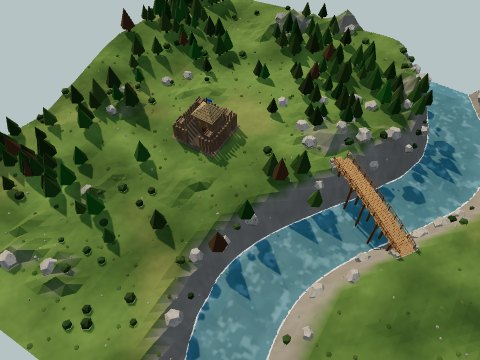
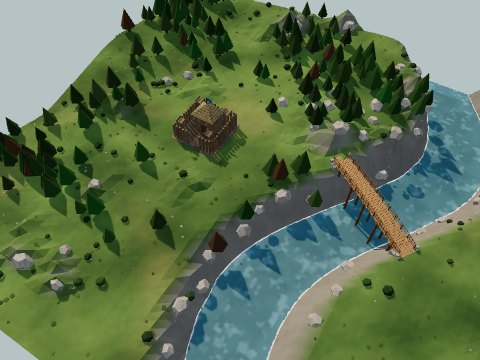
Mountain pass map: castle on a plateau, one wide pass up from the bottom-left, mountains nobody can climb, plenty of stone; a 10-minute first day and two nights of 70 and 100 raiders
Claude-Session: https://claude.ai/code/session_01AE8sRRsVdpH9ETfQvtppox

diff --git a/index.html b/index.html
@@ -121,13 +121,13 @@ button.danger{border-color:#6b3a33;color:var(--bad)}
 .sheet{background:#1c1d18;border:1px solid var(--gold);border-radius:8px;padding:20px 22px;width:min(420px,100%);display:flex;flex-direction:column;gap:12px}
 .sheet h2{margin:0;font-family:var(--display);font-weight:400;font-size:34px;color:var(--gold);text-wrap:balance}
 .sheet h2.lost{color:var(--bad)}
-.mapSheet{display:flex;flex-direction:column;align-items:center;text-align:center;gap:14px;width:min(420px,100%)}
+.mapSheet{display:flex;flex-direction:column;align-items:center;text-align:center;gap:14px;width:min(560px,100%)}
 /* the title screen: dark over everything, the game isn't shown until a map is picked */
 #mapPick{z-index:50;background:radial-gradient(ellipse at 50% 35%, #23271f 0%, #121410 70%, #0b0c09 100%)}
 .gameTitle{margin:0;font-family:var(--display);font-weight:400;font-size:clamp(34px,10vw,52px);line-height:1.05;color:var(--gold);text-shadow:0 2px 18px rgba(0,0,0,.6);text-wrap:balance}
 .mapSub{font-size:13px;letter-spacing:.14em;text-transform:uppercase;color:var(--muted);margin-bottom:4px}
-.maps{display:flex;gap:12px;justify-content:center;flex-wrap:wrap}
-.mapBtn{display:flex;flex-direction:column;align-items:stretch;gap:7px;padding:6px 6px 8px;border-radius:12px;background:#24261f;border-color:#4a4838;width:min(170px,38vw)}
+.maps{display:flex;gap:min(12px,2vw);justify-content:center;flex-wrap:wrap}
+.mapBtn{display:flex;flex-direction:column;align-items:stretch;gap:7px;padding:6px 6px 8px;border-radius:12px;background:#24261f;border-color:#4a4838;width:min(170px,25vw)}
 .mapBtn img{width:100%;aspect-ratio:4/3;object-fit:cover;border-radius:8px;display:block;background:#2e3a2c}
 .mapBtn b{font-family:var(--display);font-weight:400;font-size:17px;color:var(--parch)} .mapBtn.last{border-color:var(--gold)} .mapBtn.last b{color:var(--gold)}
 .sheet p{margin:0;color:var(--muted)}
@@ -339,6 +339,7 @@ button.armed .bIco{width:18px;height:18px;fill:none;stroke:currentColor;stroke-w
       <div class="maps">
         <button class="mapBtn" data-map="meadow"><img src="maps/meadow.jpg" alt=""><b>Meadow</b></button>
         <button class="mapBtn" data-map="isle"><img src="maps/isle.jpg" alt=""><b>River isle</b></button>
+        <button class="mapBtn" data-map="pass"><img src="maps/pass.jpg" alt=""><b>Mountain pass</b></button>
       </div>
     </div>
   </div>
@@ -365,7 +366,7 @@ const N = 28, CELL = 2, SIZE = N * CELL, V = SIZE + 1;
 const F = 3, TICK = 20;
 let KX = 19, KZ = 27;                  // castle site: Meadow cells 8–10, 12–14; River isle 12–14, 12–14 (set per map in startGame)
 // MAP: 'meadow' (the original map) or 'isle' (the castle on an island ringed by a river, three fixed bridges); ?map=isle skips the picker
-var MAP = (location.search.match(/[?&]map=(meadow|isle)\b/) || [])[1] || (() => { try { return localStorage.getItem('mtd-map'); } catch (e) { return null; } })() || 'meadow';
+var MAP = (location.search.match(/[?&]map=(meadow|isle|pass)\b/) || [])[1] || (() => { try { const m = localStorage.getItem('mtd-map'); return /^(meadow|isle|pass)$/.test(m) ? m : null; } catch (e) { return null; } })() || 'meadow';
 // river isle: the river's centre line wobbles round the castle; ISLE.r is its mean radius in metres
 const ISLE = { r: 16.6 }, ISLE_BRIDGES = [-90, 30, 150], ISLE_ROCKS = [-30, 90, 210], MEADOW_BRIDGES = [0];   // Meadow: one bridge east from the castle over its river
 const isleOutN = z => 41 + 2.5 * Math.sin(z * .22 + .5), isleOutS = z => 18 + 2.5 * Math.sin(z * .2 + 2);   // the isle's two outflows: centre x by z
@@ -446,15 +447,20 @@ const PATH_COST = { gold: 1 }, PATH_CHARM = .02, CHARM_R = 8, WALK = { farm: 1, 
 const CATS = { eco: ['house', 'farm', 'lodge', 'quarry', 'market'], def: ['tower', 'barracks', 'wall', 'gate'], decor: ['road', 'well', 'torch', 'flowers', 'statue'] };
 const WALLY = { wall: 1, gate: 1 };   // walls join only walls and gates
 // spearmen are the basic raider and come first; swordsmen join from wave 2, captains from wave 3
-const WAVES = [
+const WAVES_STD = [
   { spear: 7, sword: 0, archer: 2, hp: 1, dmg: 1 },
   { spear: 9, sword: 4, archer: 3, hp: 1.15, dmg: 1.1 },
   { spear: 10, sword: 6, archer: 5, hp: 1.3, dmg: 1.2, captain: 1 },
   { spear: 12, sword: 9, archer: 7, hp: 1.45, dmg: 1.35, captain: 1 },
   { spear: 14, sword: 12, archer: 10, hp: 1.6, dmg: 1.5, captain: 2 },
 ];
-const NIGHTS = WAVES.length;
-const DAYLEN = [300, 150, 150, 150, 150];
+// Mountain pass: one long day to prepare, then two huge nights
+const MAP_RULES = {
+  pass: { waves: [{ spear: 36, sword: 18, archer: 14, hp: 1.2, dmg: 1.1, captain: 2 }, { spear: 46, sword: 28, archer: 22, hp: 1.45, dmg: 1.3, captain: 4 }],
+          day: [600, 150], spawnGap: .5 },
+};
+var WAVES = WAVES_STD, NIGHTS = WAVES.length, DAYLEN = [300, 150, 150, 150, 150], SPAWN_GAP = 1.1;
+function mapRules() { const R = MAP_RULES[MAP]; WAVES = R ? R.waves : WAVES_STD; NIGHTS = WAVES.length; DAYLEN = R ? R.day : [300, 150, 150, 150, 150]; SPAWN_GAP = R ? R.spawnGap : 1.1; }
 const ENEMY = {
   sword:   { hp: 50, speed: 1.5, range: .6, dmg: 6, rate: 1.0 },
   archer:  { hp: 32, speed: 1.3, range: 4.5, dmg: 6, rate: 1.8 },
@@ -478,7 +484,27 @@ const lock = new Uint8Array(V * V), road = new Uint8Array(N * N);
 let occB = new Array(N * N).fill(null);
 // the Meadow river's centre line
 const meadowRiverX = z => SIZE * .68 + Math.sin(z * .12) * 5 + Math.sin(z * .05 + 1) * 3;
+// Mountain pass: the castle on a plateau at the top right, one wide pass climbing to it from the bottom-left corner,
+// steep mountains everywhere else; nobody walks or builds outside the plateau and the pass (passOpen)
+const PASS = { ax: -2, az: 58, bx: 31, bz: 28, plate: 10.5 };
+function passAt(x, z) {
+  const dx = PASS.bx - PASS.ax, dz = PASS.bz - PASS.az, L = Math.hypot(dx, dz), ux = dx / L, uz = dz / L;
+  const t = clamp(((x - PASS.ax) * ux + (z - PASS.az) * uz) / L, 0, 1), qx = PASS.ax + dx * t, qz = PASS.az + dz * t;
+  const side = Math.sign((x - PASS.ax) * -uz + (z - PASS.az) * ux) || 1, wob = 1.6 * Math.sin(t * 7);
+  return { t, across: Math.abs(Math.hypot(x - qx, z - qz) * side - wob), half: 6.5 + 1.5 * t, plate: Math.hypot(x - KX, z - KZ) };
+}
+const passOpen = (x, z) => { const p = passAt(x, z); return p.across < p.half - .3 || p.plate < PASS.plate - .3; };
+function passHeight(x, z) {
+  const p = passAt(x, z), ridge = 1 - Math.abs(fbm(x * .17 + 5, z * .17 + 9) * 2 - 1);
+  const mount = 8 + 6.5 * fbm(x * .11, z * .11) + 4.5 * ridge * ridge + 1.5 * vnoise(x * .4, z * .4);
+  const floor = 1 + 5 * Math.pow(p.t, 1.2) + .4 * fbm(x * .2, z * .2), plateH = 6 + .3 * fbm(x * .2 + 3, z * .2);
+  const inPass = sstep(p.half + 3, p.half, p.across), inPlate = sstep(PASS.plate + 3, PASS.plate, p.plate);
+  let h = lerp(mount, floor, inPass); h = lerp(h, plateH, inPlate);
+  if (p.plate < PASS.plate + 2.5 && inPass > .5) h = Math.min(h, plateH);
+  return h;
+}
 function genHeight(x, z) {
+  if (MAP === 'pass') return passHeight(x, z);
   let h = 1.6 + fbm(x * .06, z * .06) * 4.2;
   h += Math.max(0, fbm(x * .14 + 9, z * .14 + 3) - .6) * 16;
   h += Math.max(0, 10 - x) * .35 * fbm(x * .1, z * .1 + 7);
@@ -510,6 +536,7 @@ let bridges = [];
 const bridgeCell = new Uint8Array(N * N), BRIDGE_RISE = .45, DECK_W = 1.9;
 // where each map's bridges cross: a start point and a direction, marched along until the river is crossed
 function bridgeRays() {
+  if (MAP === 'pass') return [];
   if (MAP === 'isle') return ISLE_BRIDGES.map(deg => { const a = deg * Math.PI / 180, r = isleR(a); return { ox: KX + Math.cos(a) * (r - 7), oz: KZ + Math.sin(a) * (r - 7), dx: Math.cos(a), dz: Math.sin(a) }; });
   // Meadow: square across its river where it passes the castle's row
   const zc = KZ, drx = .6 * Math.cos(zc * .12) + .15 * Math.cos(zc * .05 + 1), m = Math.hypot(1, drx), dx = 1 / m, dz = -drx / m;
@@ -667,6 +694,7 @@ waterMat.customProgramCacheKey = () => 'flowing-water';
 const C = { grass: new THREE.Color('#5a7338'), grass2: new THREE.Color('#3b5127'), dirt: new THREE.Color('#7b5d3c'),
   rock: new THREE.Color('#77736a'), sand: new THREE.Color('#9d906b'), bed: new THREE.Color('#45432f'), dry: new THREE.Color('#7f7948') };
 const tmpC = new THREE.Color();
+const SNOW_C = new THREE.Color('#e4e6ea');
 function recolor() {
   for (let j = 0; j < V; j++) for (let i = 0; i < V; i++) {
     const k = idx(i, j), h = H[k];
@@ -675,7 +703,7 @@ function recolor() {
     tmpC.copy(C.grass2).lerp(C.grass, clamp((gvar[k] - .25) * 2, 0, 1));
     tmpC.lerp(C.dry, sstep(.55, .72, dvar[k]) * .4);
     tmpC.lerp(C.sand, sstep(.8, .2, h)); tmpC.lerp(C.bed, sstep(-.1, -.8, h));
-    tmpC.lerp(C.rock, sstep(.55, 1.1, Math.hypot(hx, hz))); tmpC.lerp(C.dirt, dirt[k]);
+    tmpC.lerp(C.rock, sstep(.55, 1.1, Math.hypot(hx, hz))); if (h > 15) tmpC.lerp(SNOW_C, sstep(16.2, 18.5, h) * .7); tmpC.lerp(C.dirt, dirt[k]);
     tmpC.multiplyScalar(.94 + .1 * hash(i * 1.7, j * 2.3));
     tCol[k * 3] = tmpC.r; tCol[k * 3 + 1] = tmpC.g; tCol[k * 3 + 2] = tmpC.b;
   }
@@ -943,6 +971,17 @@ function genTrees() {
       if (woods || lone) trees.push({ x, z, s: .75 + hash(z, x) * .5, k: 1 });
       continue;
     }
+    if (MAP === 'pass') {
+      // a forest wrapped round the castle except toward the pass, trees along the pass's sides, and (out of reach, for looks)
+      // pines on the gentler mountain slopes
+      const ang = Math.atan2(z - KZ, x - KX) * 180 / Math.PI, open = passOpen(x, z), p = passAt(x, z);
+      if (open) {
+        const ring = dk > 7.2 && dk < PASS.plate - .6 && !(ang > 95 && ang < 170) && hash(x * 1.3, z * .7) < .62;
+        const side = p.plate > PASS.plate && p.across > p.half - 2.2 && hash(x * 1.7, z * .9) < .35;
+        if ((ring || side) && !passRockSite(x, z, 1.8)) trees.push({ x, z, s: .75 + hash(z, x) * .5, k: 1 });
+      } else if (slopeAt(x, z) < 1.2 && hAt(x, z) < 14 && hash(x * 2.3, z * 1.9) < .18) trees.push({ x, z, s: .7 + hash(z, x) * .5, k: 1, deco: true });
+      continue;
+    }
     if (dk < 7.5 || (z > KZ && Math.abs(x - KX) < 3 && dk < 16) || nearBridge(x, z, 3)) continue;
     const mask = fbm(x * .08 + 20, z * .08 + 11), h = hAt(x, z);
     const lone = hash(x * 2.1, z * 1.7) < .07, forest = dk > 12 && mask > .5 && hash(x * 1.3, z * .7) < (mask - .45) * 3 * sstep(12, 18, dk);
@@ -962,7 +1001,7 @@ function seatTrees() {
   });
   trunks.instanceMatrix.needsUpdate = crowns.instanceMatrix.needsUpdate = true;
 }
-const treeFree = (t, now) => !t.dead && !t.cut && t.k >= 1 && !t.claim && !((t.blocked || 0) > now);
+const treeFree = (t, now) => !t.dead && !t.deco && !t.cut && t.k >= 1 && !t.claim && !((t.blocked || 0) > now);   // deco: on a mountain, out of reach
 
 // ---------- rocks ----------
 const ROCK_STONE = 10;   // stone in each rock, one per mason trip; mined-out rocks don't come back
@@ -970,9 +1009,29 @@ let rocks = [];
 const rockGeo = new THREE.DodecahedronGeometry(.75, 0), rockMat = mat('#958f84'); addGrit(rockMat, 'rock');
 // River isle: three outcrops just beyond the far bank, between the bridges
 const isleRockSite = (x, z, d) => MAP === 'isle' && ISLE_ROCKS.some(g => { const a = g * Math.PI / 180, R = isleR(a) + 6.5; return Math.hypot(x - KX - Math.cos(a) * R, z - KZ - Math.sin(a) * R) < d; });
+// Mountain pass: plenty of stone, in outcrops on the plateau east and south of the castle, north-west of it, and along the pass
+const PASS_ROCKS = [[45.5, 23.5], [42.5, 28.8], [30.5, 15.5], [24, 35.5, 1], [16.5, 41.5, -1], [9.5, 48.5, 1]];
+const passRockSite = (x, z, d) => MAP === 'pass' && passRockCentres().some(([cx, cz]) => Math.hypot(x - cx, z - cz) < d + 2.2);
+function passRockCentres() {   // pass outcrops sit to one side of the track, inside the walls
+  return PASS_ROCKS.map(([x, z, side]) => { if (!side) return [x, z]; const p = passAt(x, z), dx = PASS.bx - PASS.ax, dz = PASS.bz - PASS.az, L = Math.hypot(dx, dz);
+    const qx = PASS.ax + dx * p.t, qz = PASS.az + dz * p.t, o = side * (p.half - 2.6); return [qx - dz / L * o, qz + dx / L * o]; });
+}
 function genRocks() {
   rocks.forEach(r => scene.remove(r.mesh)); rocks = [];
   const addRock = (x, z, s0, rot) => { const mesh = new THREE.Mesh(rockGeo, rockMat); mesh.castShadow = mesh.receiveShadow = true; mesh.rotation.set(...rot); rocks.push({ x, z, amount: ROCK_STONE, s0, mesh }); scene.add(mesh); };
+  if (MAP === 'pass') {
+    for (const [cx, cz] of passRockCentres()) for (let n = 0, k = 0; n < 300 && k < 8; n++) {
+      const x = cx + (Math.random() - .5) * 5, z = cz + (Math.random() - .5) * 5;
+      if (!passOpen(x, z) || Math.hypot(x - KX, z - KZ) < 6.5 || rocks.some(r => Math.hypot(r.x - x, r.z - z) < 1.7)) continue;
+      addRock(x, z, .95 + Math.random() * .5, [Math.random() * 3, Math.random() * 3, Math.random() * 3]); k++;
+    }
+    for (let n = 0, k = 0; n < 4000 && k < 14; n++) {
+      const x = 1 + Math.random() * (SIZE - 2), z = 1 + Math.random() * (SIZE - 2);
+      if (!passOpen(x, z) || Math.hypot(x - KX, z - KZ) < 7 || passAt(x, z).across < 2.5 || rocks.some(q => Math.hypot(q.x - x, q.z - z) < 3)) continue;
+      addRock(x, z, .85 + Math.random() * .5, [Math.random() * 3, Math.random() * 3, Math.random() * 3]); k++;
+    }
+    return;
+  }
   if (MAP === 'isle') {
     for (const g of ISLE_ROCKS) {
       const a = g * Math.PI / 180, R = isleR(a) + 6.5, cx = KX + Math.cos(a) * R, cz = KZ + Math.sin(a) * R;
@@ -1972,6 +2031,7 @@ function evaluate(type, ci, cj, free) {
   const T = DEF[type], s = T.size, x0 = ci * CELL, z0 = cj * CELL, x1 = x0 + s * CELL, z1 = z0 + s * CELL;
   const r = { type, ci, cj, s, x0, z0, x1, z1, ok: true, reason: '' };
   if (ci < 0 || cj < 0 || ci + s > N || cj + s > N) return { ...r, ok: false, reason: 'Off the map' };
+  if (MAP === 'pass') for (let b = cj; b < cj + s; b++) for (let a = ci; a < ci + s; a++) if (!passOpen((a + .5) * CELL, (b + .5) * CELL)) return { ...r, ok: false, reason: 'Too steep' };
   for (let b = cj; b < cj + s; b++) for (let a = ci; a < ci + s; a++) { if (occB[b * N + a]) return { ...r, ok: false, reason: 'Occupied' }; if (bridgeCell[b * N + a]) return { ...r, ok: false, reason: 'Bridge' }; }
   // solid buildings can't sit on another building's door cell, or villagers coming out get trapped there
   if (!WALK[type] && type !== 'gate' && buildings.some(B => !B.dead && B.door && B.door.a >= ci && B.door.a < ci + s && B.door.b >= cj && B.door.b < cj + s))
@@ -2229,6 +2289,7 @@ const FARM_OBST = { 1: [[-1.0, -1.2, .55, .4], [.9, -1.2, .3, .3]], 2: [[1.1, -.
 function farmBlocked(B, x, z) { const c = center(B), [lx, lz] = unrot(B.face || 0, x - c.x, z - c.z); return FARM_OBST[B.tier].some(([ox, oz, hx, hz]) => Math.abs(lx - ox) < hx + .18 && Math.abs(lz - oz) < hz + .18); }
 function canStand(x, z, mode) {   // mode 0 villager, 1 worker, 2 enemy
   if (x < .5 || z < .5 || x > SIZE - .5 || z > SIZE - .5) return false;
+  if (MAP === 'pass' && !passOpen(x, z)) return false;           // the mountains are too steep for anyone
   { const i = bridgeCell[cellAt(x, z)]; if (i && onDeck(bridges[i - 1], x, z)) return true; }
   const h = hAt(x, z);
   if (h < (mode === 2 || mode === 1 ? .3 : .5)) return false;   // nobody wades: rivers are crossed by bridge
@@ -2565,6 +2626,7 @@ function smoothPos(u, dt, now) {
 function stride(u, dt, rate) { u.amp = (u.amp || 0) + ((u.walking ? 1 : 0) - (u.amp || 0)) * Math.min(1, dt * 6); if (u.amp > .02) u.phase += dt * rate; return u.amp; }
 // ---------- pathfinding: A* over the cell grid, then follow cell centres, skipping any we can see past ----------
 function cellPass(n, mode) {
+  if (MAP === 'pass' && !passOpen((n % N + .5) * CELL, (((n / N) | 0) + .5) * CELL)) return false;
   if (bridgeCell[n]) return true;
   const o = occB[n]; if (o && !WALK[o.type] && !(o.type === 'gate' && mode !== 2)) return false;
   // a farm cell whose middle is the hut, barn, hay or a scarecrow is routed round (people still walk the open ground by it)
@@ -2979,6 +3041,8 @@ function makeRaider(kind) {
 }
 function spawnEnemy(kind, sp, wave) {
   const E = ENEMY[kind], w = WAVES[wave - 1], p = makeRaider(kind);
+  // only a raider's bigger parts cast shadows: the Mountain pass sends up to 100 at once, and every shadow is another draw
+  p.g.traverse(o => { if (o.isMesh) { const g = o.geometry; if (!g.boundingSphere) g.computeBoundingSphere(); if (g.boundingSphere.radius < .16) o.castShadow = false; } });
   const e = Object.assign(p, { kind, x: clamp(sp.x + (Math.random() - .5) * 2, 1, SIZE - 1), z: clamp(sp.z + (Math.random() - .5) * 2, 1, SIZE - 1),
     hp: E.hp * w.hp, max: E.hp * w.hp, speed: E.speed * (.9 + Math.random() * .2), range: E.range, dmg: E.dmg * w.dmg, rate: E.rate,
     cool: Math.random(), target: null, retarget: 0, dead: false, deadT: 0, bar: makeBar(kind === 'captain' ? 1.2 : .8) });
@@ -2988,6 +3052,13 @@ function distRect(B, x, z) { const e = B.ev; return Math.hypot(Math.max(e.x0 - x
 function nearestBuilding(x, z, maxD = 1e9, ok = null) { let best = null, bd = maxD; for (const B of buildings) { if (DEF[B.type].decor || (ok && !ok(B))) continue; const d = distRect(B, x, z); if (d < bd) { bd = d; best = B; } } return best; }
 function edgePoint() {
   const C = castleB(), dp = C && doorPoint(C);   // a spawn must have a walkable route to the castle's door
+  if (MAP === 'pass') {                          // always the foot of the pass, at the bottom-left corner
+    for (let n = 0; n < 120; n++) {
+      const t = Math.random() * 22, [x, z] = Math.random() < .5 ? [1 + t, SIZE - 1.2] : [1.2, SIZE - 1 - t];
+      if (passOpen(x, z) && cellPass(cellAt(x, z), 2) && (!dp || findPath(x, z, dp.x, dp.z, 2))) return { x, z };
+    }
+    return { x: 4, z: SIZE - 1.5 };
+  }
   for (let n = 0; n < 80; n++) {
     const side = Math.floor(Math.random() * 4), t = 2 + Math.random() * (SIZE - 4);
     const [x, z] = side === 0 ? [t, 1.2] : side === 1 ? [SIZE - 1.2, t] : side === 2 ? [t, SIZE - 1.2] : [1.2, t];
@@ -3418,7 +3489,7 @@ function updatePhase(dt) {
     if (PH.t <= 0) startNight();
   }
   else {
-    if (spawnQueue.length && (spawnT -= dt) <= 0) { const [k, p] = spawnQueue.shift(); spawnEnemy(k, p, PH.wave); spawnT = 1.1; }
+    if (spawnQueue.length && (spawnT -= dt) <= 0) { const [k, p] = spawnQueue.shift(); spawnEnemy(k, p, PH.wave); spawnT = SPAWN_GAP; }
     if (!spawnQueue.length && !enemies.some(e => !e.dead)) { if (PH.wave >= NIGHTS) endGame(true); else startDay(); }
   }
   if (PH.kind === 'day' && (econT -= dt) <= 0) { econT = TICK; econTick(); }   // no payouts at night: the ring waits for dawn
@@ -3982,14 +4053,16 @@ function startGame() {
   for (const a of arrows) scene.remove(a.m); arrows.length = 0; volleyQ = []; volleyCd = 0; volleyAim = false; volleyLine.visible = false;
   for (const f of floats) scene.remove(f.sp); floats.length = 0;
   for (const p of puffs) scene.remove(p.sp); puffs.length = 0;
+  mapRules();
   PH = { kind: 'day', wave: 1, t: DAYLEN[0] }; econT = TICK; gameOver = false; light = 1; if (paused) setPaused(false); setMusic('day');
-  if (MAP === 'isle') { KX = 27; KZ = 27; } else { KX = 19; KZ = 27; }
+  if (MAP === 'isle') { KX = 27; KZ = 27; } else if (MAP === 'pass') { KX = 37; KZ = 21; } else { KX = 19; KZ = 27; }
   genTerrain(); genBridges(); genTrees(); genRocks(); genClutter(); syncTerrain(); buildBridges(); genShore(); hideGhost(); deselect();
   Object.assign(res, { gold: 40, wood: 45, stone: 0, food: 20 });
   stats = { slain: 0, lost: 0, fallen: 0, gold: 0, wood: 0, stone: 0, food: 0, built: 0, upgrades: 0, t0: performance.now() };
   $('#summary').hidden = true; $('#log').innerHTML = '';
-  const ev = MAP === 'isle' ? findValid('castle', 12, 12, { free: true }) : findValid('castle', 8, 12, { free: true });
+  const ev = MAP === 'isle' ? findValid('castle', 12, 12, { free: true }) : MAP === 'pass' ? findValid('castle', 17, 9, { free: true }) : findValid('castle', 8, 12, { free: true });
   if (ev) { const B = place('castle', ev.ci, ev.cj, { instant: true, free: true, quiet: true }); const c = center(B); target.set(c.x, 2, c.z); }
+  if (MAP === 'pass') { yaw = -.72; target.x -= 3; target.z += 3.5; }   // looking up the pass at the castle
   updateCam();
   log('Drag · twist · pinch');
   log(`Survive <b>${NIGHTS} nights</b>`);

diff --git a/tools/render/maps.js b/tools/render/maps.js
@@ -1,13 +1,13 @@
-// Renders the map picker's pictures from the real maps: maps/meadow.jpg and maps/isle.jpg (3/4 view, no UI).
+// Renders the map picker's pictures from the real maps: maps/meadow.jpg, maps/isle.jpg and maps/pass.jpg (3/4 view, no UI).
 //   node tools/render/maps.js [--three path/to/three.min.js]
 const path = require('path'), fs = require('fs');
 const { openGame } = require('./serve');
 const ROOT = path.resolve(__dirname, '../..');
 const arg = (k, d) => { const i = process.argv.indexOf(k); return i > 0 ? process.argv[i + 1] : d; };
-const VIEW = { meadow: [25, 0, 29, .55, .95, 52], isle: [27, 0, 27, .55, .95, 52] };    // target x, y, z, yaw, pitch, dist
+const VIEW = { meadow: [25, 0, 29, .55, .95, 52], isle: [27, 0, 27, .55, .95, 52], pass: [29, 2, 30, -.72, .95, 56] };    // target x, y, z, yaw, pitch, dist
 (async () => {
   const { page, close, errors } = await openGame('index.html?debug&map=meadow', { three: arg('--three'), viewport: { width: 480, height: 360 } });
-  for (const m of ['meadow', 'isle']) {
+  for (const m of ['meadow', 'isle', 'pass']) {
     const v = VIEW[m];
     await page.evaluate(m => G(`try { localStorage['mtd-guide'] = 'done'; } catch (e) {} guideFinish(); MAP = '${m}'; startGame(); paused = true; 0`), m);
     await page.waitForTimeout(1500);

diff --git a/CLAUDE.md b/CLAUDE.md
@@ -54,9 +54,10 @@ The whole game is currently one self-contained file: `index.html` (~165 KB, thre
 - Doors: every tier-1 building's door, every house door and every barracks door is the lumber camp's size, `DOOR_W` .55 × `DOOR_H` 1.0 (bottom on the slab/plinth top); buildings were raised to fit (hovel, cottage, townhouse, lumber shack (4 log courses), stone pit shed, muster hut, barracks hall, farm T1 hut, farm T3 barn, which got a door). The palisade fort's hall door is .72 × 1.16 (windows above it at y 1.98); the stone keep's own door (inside the courtyard) is the standard door, `DOOR_W / k` wide so it stays .55 m after `CASTLE_K`. The hovel has no fence posts beside it.
 
 ## Maps
-- Two maps, picked on a dark title screen ("Medieval Town Defense", "Choose map"; `#mapPick` covers everything, visible from the first paint so the game never shows behind it) on entry and on Restart / Play again (`#mapPick`, `showMapPick`; each card shows a picture of the real map, `maps/meadow.jpg` / `maps/isle.jpg`, rendered by `node tools/render/maps.js [--three …]` (re-run after changing a map); the game waits paused underneath; last choice in `localStorage['mtd-map']`, highlighted). `?map=meadow|isle` (and `?debug` / `?gallery`) skip the picker. `MAP` is read by `genHeight`, `genTrees`, `genRocks`, `canStand`; `KX/KZ` (castle site) are set per map in `startGame` (Meadow 19,27 / cells 8–10,12–14; River isle 27,27 / cells 12–14,12–14).
+- Three maps, picked on a dark title screen ("Medieval Town Defense", "Choose map"; `#mapPick` covers everything, visible from the first paint so the game never shows behind it) on entry and on Restart / Play again (`#mapPick`, `showMapPick`; each card shows a picture of the real map, `maps/meadow.jpg` / `maps/isle.jpg` / `maps/pass.jpg`, rendered by `node tools/render/maps.js [--three …]` (re-run after changing a map); the game waits paused underneath; last choice in `localStorage['mtd-map']`, highlighted). `?map=meadow|isle|pass` (and `?debug` / `?gallery`) skip the picker; a stored choice that isn't a known map is ignored. `MAP` is read by `genHeight`, `genTrees`, `genRocks`, `canStand`; `KX/KZ` (castle site) are set per map in `startGame` (Meadow 19,27 / cells 8–10,12–14; River isle 27,27 / cells 12–14,12–14; Mountain pass 37,21 / cells 17–19,9–11).
 - **Meadow**: the original map: a winding river on the east side (`meadowRiverX`), crossed by one fixed bridge square across it on the castle's row (`bridgeRays`). Rocks: a stony patch between the castle and the river north of the bridge (8) plus up to 48 scattered (≈510 stone). Nobody wades any river (`canStand` modes 1 and 2 need h ≥ .3), so raiders spawning east of it must cross the bridge.
 - **River isle**: the castle on a flat island inside a wobbly ring of river (`ISLE.r` 16.6 m, `isleR(angle)`), hills beyond the far bank. Two more rivers flow out of the ring to the map's edge, north-east and south-west (`isleOutN`/`isleOutS`, carved in `genHeight` outside the ring only), so the far bank is split in two. Three fixed, free timber footbridges at `ISLE_BRIDGES` (−90°, 30°, 150°), each radial (square across the ring). Bridges at any angle (`genBridges` from `bridgeRays`: march along a ray; each end runs on past the water until it lands on flat ground at the bank top (`flat`: height > .5, slope < .6 on the centre line and 1.3 m either side, up to 6 m), so the deck is level with the ground beside its ends; trestles wherever the deck is over 1 m above the ground; a bridge is `x0, z0, dx, dz, L`, deck `DECK_W` 1.9; `bridgeT`/`bridgeW`/`onDeck`; `bridgeCell[n]` = index + 1 for every cell the deck touches, `b.ends` its end cells). `deckY(b, t)` arches the deck (`BRIDGE_RISE` .45); units stand at `walkY` (the deck inside its strip, else the ground) everywhere they are drawn; `cellPass` lets everyone path over bridge cells, `canStand` only on the deck strip; A* steps on and off a bridge only through its end cells; `routePoints` turns a run of bridge cells into: a point on the ground 0.8 m in front of the entry end, the deck's end, its far end, the ground beyond (on-deck starts/targets keep `bridgeWaypoint` centre-line points); a unit standing on the ground in a cell a deck touches counts as off the bridge (`deckAt`, in `findPath` and `clearLine`), else it was routed up the deck's side and stood stuck on the bank; raiders can't wade (`canStand` mode 2 needs h ≥ .3). Nothing can be built or pathed on a bridge ("Bridge"). Model: `makeBridge` (planks across the arch, two log stringers, trestles where it crosses water, log railings, grey stone landings), `buildBridges` after `syncTerrain`. Woods on the island (clear round the castle and along the way to each bridge), forest beyond the river; stone only beyond the river: three outcrops between the bridges (`ISLE_ROCKS`, `isleRockSite`, 7 rocks each) plus 16 scattered rocks, so masons either live by the castle and walk via a bridge or build out by the rocks, exposed.
+- **Mountain pass** (`MAP` 'pass'): no water. The castle on a plateau at the top right (`PASS.plate` 10.5 m round it, height 6), one wide pass (13–16 m, winding a little) climbing from the bottom-left corner (`PASS` a→b, floor 1 → 6 m) to it, rough mountains everywhere else (8–18 m, ridged noise, snow over 16 m via `SNOW_C` in `recolor`), with 3 m cliffs between (`passHeight`, `passAt`). `passOpen(x, z)` is the only ground anyone may stand on, path through or build on (`canStand`, `cellPass`, `evaluate` "Too steep"), so every raider comes up the pass; they spawn at its foot (`edgePoint`). Trees: a forest ring round the castle except toward the pass, some along the pass's sides, and unreachable `deco` pines on the mountains (`treeFree` skips them). Stone is plentiful: outcrops at `PASS_ROCKS` (three on the plateau, three beside the track in the pass, 8 rocks each) plus 14 scattered (~60 rocks). Rules (`MAP_RULES.pass`, applied by `mapRules()` in `startGame`): one 600 s day, then night 1 = 70 raiders (36 spear, 18 sword, 14 archer, 2 captains, hp ×1.2), a 150 s day, night 2 = 100 (46/28/22 + 4 captains, hp ×1.45); raiders spawn every `SPAWN_GAP` .5 s; same starting resources. The camera starts looking up the pass (`yaw` −.72). Only a raider's bigger parts (bounding radius ≥ .16) cast shadows (`spawnEnemy`), as up to 100 can be on screen.
 - Raiders route on the cell grid with `walkTo` (mode 2) toward a fixed point on their target's near side (`e.tp`, reset on each 3 s retarget), straight `steer` only within 3 m; a wall in the way (stuck or 3.5 s without progress) is attacked as before. Spawn points (`edgePoint`) must be walkable (`cellPass` mode 2) and have a route to the castle's door (a route to the castle's centre never exists: it is inside the building), else raiders spawned on steep edge hills stood stuck.
 - No building over a rock (`evaluate`: "Rocks"), so stone is never buried.
 - **Map sides** (`buildEdges`, from `syncTerrain`): solid earth walls from the ground's edge down to `EDGE_BASE` −4 (vertex-coloured: grassy lip, soil, darker below) and a water cross-section where a river runs off the edge, so the map reads as a block of land from low angles. (A 50 m scenery skirt beyond the map was tried and dropped.)
@@ -67,7 +68,7 @@ The whole game is currently one self-contained file: `index.html` (~165 KB, thre
 
 ## Gameplay summary
 - 28×28 grid of 2 m cells. Start: castle prebuilt in the middle, 3 villagers, gold 40, wood 45, stone 0, food 20.
-- **Day/night**: 5 waves (`NIGHTS = WAVES.length`). Day 1 lasts 300 s, days 2–5 last 150 s (`DAYLEN`); the last `DUSK` 40 s fade slowly to night (light and dusk colours in `updateLight`), with a "Dusk · Night N soon" banner and log line as it starts. Nothing is earned at night: no payouts (the `econT` ring waits for dawn) and a load carried in after dark is lost (`deliver`). Night ends when all enemies are dead. Summary screen at the end.
+- **Day/night**: 5 waves on Meadow and River isle (`WAVES_STD`; `WAVES`, `NIGHTS`, `DAYLEN`, `SPAWN_GAP` are set per map by `mapRules()`; Mountain pass has 2). Day 1 lasts 300 s, days 2–5 last 150 s (`DAYLEN`); the last `DUSK` 40 s fade slowly to night (light and dusk colours in `updateLight`), with a "Dusk · Night N soon" banner and log line as it starts. Nothing is earned at night: no payouts (the `econT` ring waits for dawn) and a load carried in after dark is lost (`deliver`). Night ends when all enemies are dead. Summary screen at the end.
 - **Waves** (`WAVES`): spearmen are the basic raider and come first. 1 = 7 spears + 2 archers; 2 = 9/4 swords/3 archers (hp ×1.15); 3 = 10/6/5 + captain (×1.3); 4 = 12/9/7 + captain (×1.45); 5 = 14/12/10 + 2 captains (×1.6). Targets (`pickTarget`): spearmen the nearest building; swordsmen the nearest archer tower (else nearest building); the mounted captain the castle; archers the nearest non-wall building, shooting over walls (`lob` adds 3.5 m reach when a wall blocks them).
 - **Economy**: payouts every `TICK=20` s (ring in top panel). Each villager eats 1 food every `MEAL=20` s of daylight; hungry villagers go home and sleep. A farmer who goes hungry leaves the field (`v.job = null` in `feedVillager`); `assignJobs` (also every 0.5 s by day) fills farms first and, while food is low (`foodLow`: under 3 meals a head, or `foodMade()`, the farms' (by farmers at work) and castle's food per payout, is less than the villagers eat per payout), moves a lumberjack or mason (not carrying, building or posted) to an empty farm job ("Food low · worker to the farm", at most every 20 s).
 - **Barracks soldiers**: at nightfall `assignPosts` fills posts in priority order (castle, then archer towers, then barracks; `rank`) with whoever is free; a barracks takes up to 3 and may go short. A villager carrying a log or stone delivers it on posting. The villager walks to its door, goes in, changes for ~1.4 s (`v.kitT`), comes out geared (`soldierKit`: T1 Militia blue tunic + padded cap + spear; T2 Guard leather jerkin + kettle hat + spear + round wooden shield; T3 Man-at-arms mail + blue surcoat + steel helm + sword + blue kite shield) and stays out (`v.soldier`, `updateSoldier`): holds the door or the rally flag (`SQUAD` offsets), engages raiders within 6 m of that spot, drops ones 9 m away or unreachable (4 s without progress). Melee raiders fight any soldier within 2.2 m (horse 2.6) before their building target (`nearestSoldier`, `hurtSoldier`). A fallen soldier falls over (`fallen`), leaves the town and is queued in `respawns`; after 60 s of daylight a villager returns to that home (or the castle); `syncResidents` counts pending respawns. At dawn soldiers walk back to their barracks, go in, change (`v.unkit`, `updateUnkit`, `stripKit`) and come out to their day's work (a lost barracks: they change where they stand); dawn while still changing sends them out unarmed. Spears (raider spearmen, Militia, Guard) are held level at the hip pointing forward; a strike lasts `SPEAR_T` (.5 s) in three beats: draw back, drive out 0.45 m with a small lunge (body steps .15 m and leans .12), recover (`spearPose`/`spearThrust`: arm + tool tilt + lean stay at −1.57 so the shaft stays level; the grip slides down the shaft). Swords (raider swordsman and captain, Man-at-arms) cut over `SWORD_T` (.5 s, `swordPose`): raise overhead with the wrist cocked back, chop down to low in front with a .1 m step-in, recover. Soldier strikes are set exactly after the pose easing (eased, they go soft). Shields are worn on the outside of the left forearm (`armShield`): `roundShield` (wood, iron boss and rim: Guard, raider swordsman) and `heaterShield` (flat top, pointed foot, rimmed: Man-at-arms blue `kiteM` with steel rim, raider captain black with a pale rim); raider spearmen carry none, raider archers wear a pointed iron cap over a dark coif. Blue cloth that must not wave uses `kiteM`, never `M.flag` (it has the flag-wave shader). Barracks T2/T3 fly a flag on the roof peak. Rally: barracks card → Rally, then tap the ground (`rallyFor`, `setRally`, blue flag); Recall clears it. A destroyed barracks keeps its soldiers.
